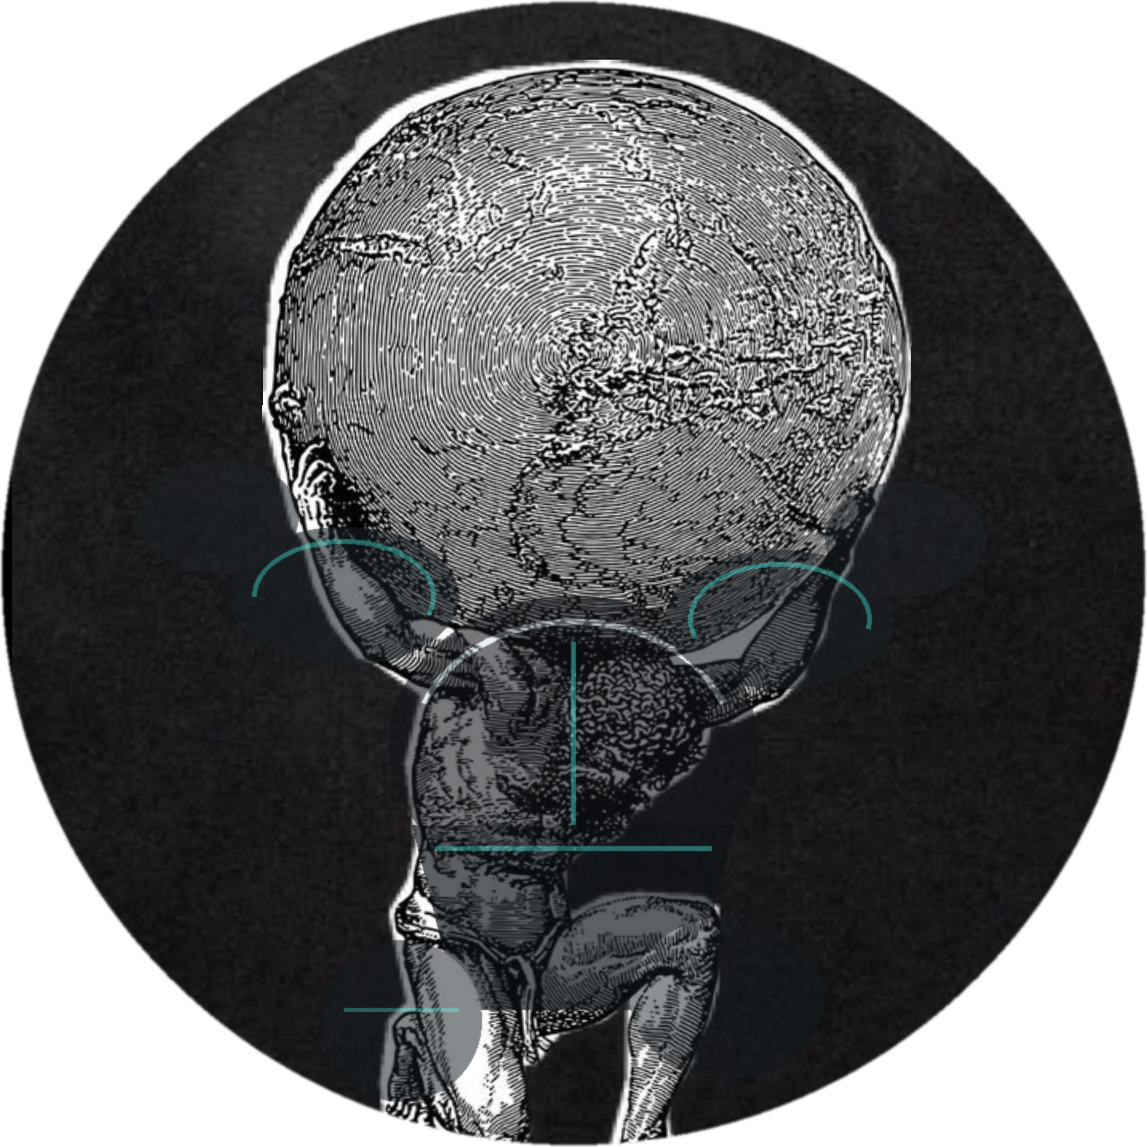
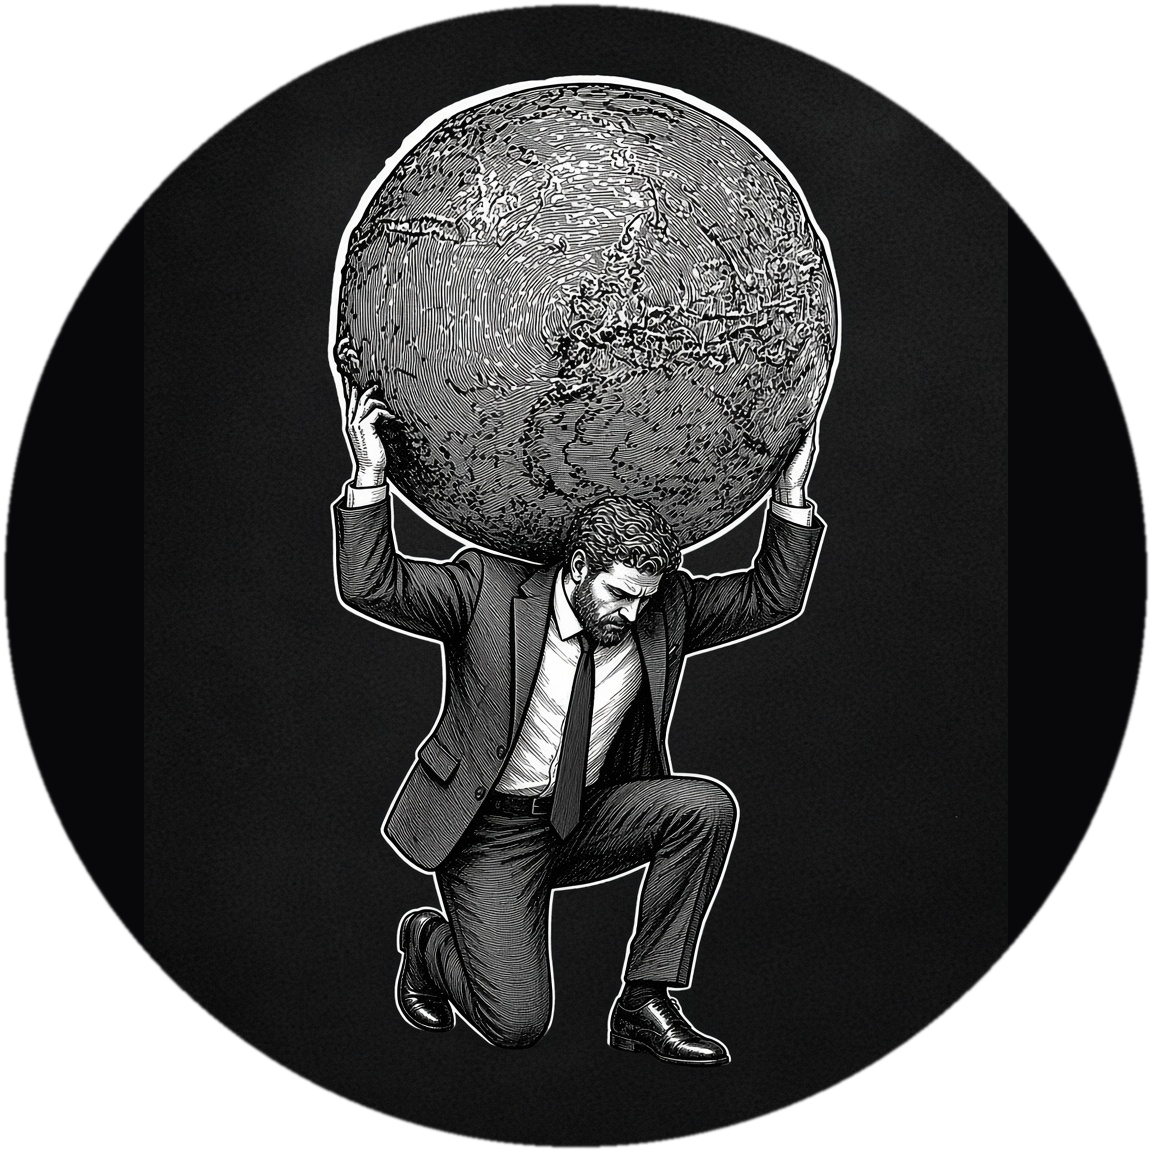
fix(hero): remove teal debug lines; cybersec-suit engraving
Replace figure PNG with clean cyber-suit engraving (no cyan overlay
guides). Give hero-visual bottom padding so « Glisser le globe » is not
clipped on mobile.

diff --git a/index.html b/index.html
@@ -161,6 +161,8 @@
     .hero-visual{
       position:relative;width:min(420px,100%);aspect-ratio:5/6;
       display:grid;place-items:center;
+      /* Room below engraving plate for drag hint (was clipped on mobile) */
+      padding-bottom:1.1rem;box-sizing:border-box;
     }
     /* Soft atmosphere behind interactive mark (not a control) */
     .hero-orb{
@@ -185,7 +187,7 @@
     #atlas-hero-mark:active{cursor:grabbing}
     #atlas-hero-mark canvas{display:block;width:100%;height:100%}
     .hero-drag-hint{
-      position:absolute;z-index:2;left:50%;bottom:2%;transform:translateX(-50%);
+      position:absolute;z-index:2;left:50%;bottom:0;transform:translateX(-50%);
       margin:0;padding:0;font-family:var(--mono);font-size:.62rem;font-weight:500;
       letter-spacing:.12em;text-transform:uppercase;color:var(--muted);
       pointer-events:none;opacity:.72;white-space:nowrap;
@@ -972,7 +974,7 @@
     }
   }
   </script>
-  <script type="module" src="/assets/atlas-hero-mark.js?v=atlas-engraving-hybrid-2026-11-20e"></script>
+  <script type="module" src="/assets/atlas-hero-mark.js?v=atlas-cyber-suit-no-teal-2026-11-20"></script>
   <!-- Optional runtime config (ops). Example: config.runtime.example.js — never commit secrets. -->
   <script src="/config.runtime.js"></script>
   <script src="/auth.js"></script>

diff --git a/assets/atlas-hero-mark.js b/assets/atlas-hero-mark.js
@@ -1,9 +1,9 @@
 /**
  * ATLAS hero mark — hybrid:
- *   • Character = static 2D engraving PNG (classical kneeling Atlas + armor overlay)
+ *   • Character = static 2D engraving PNG (kneeling Atlas in cybersec suit)
  *   • Globe = interactive Three.js Earth (auto-rotate + drag; nodes/arcs)
  *
- * Gab 2026-11-20: not obligated to use a 3D body. Match engraving ref.
+ * Gab 2026-11-20: 2D engraving body (not procedural 3D). No debug overlay lines.
  * Character never animates. Earth texture: /assets/earth-atmos.jpg
  */
 import * as THREE from 'three';

diff --git a/assets/atlas-engraving-preview.html b/assets/atlas-engraving-preview.html
@@ -12,6 +12,6 @@
 </head>
 <body>
   <p>2D engraving Atlas asset</p>
-  <img src="/assets/atlas-figure-engraving.png" alt="Atlas engraving — classical kneeling titan with armor overlay">
+  <img src="/assets/atlas-figure-engraving.png" alt="Atlas engraving — kneeling titan in cybersec suit">
 </body>
 </html>

diff --git a/README.md b/README.md
@@ -17,7 +17,7 @@ Deploy = merge / push to `main`.
 
 ## Hero mark (ATLAS)
 
-Landing brand wordmark is **ATLAS**. The hero visual is a **2D engraving-style** kneeling Atlas (beard, curly hair, dark armor costume) as canvas art — not a 3D stick/robot body. An interactive **3D** Earth globe sits on his shoulders (auto-rotate + drag; nodes/arcs). Three.js loads from jsDelivr via import map; Earth map is `/assets/earth-atmos.jpg`.
+Landing brand wordmark is **ATLAS**. The hero visual is a **2D engraving-style** kneeling Atlas in a dark cybersec suit (beard, curly hair) — not a 3D stick/robot body. An interactive **3D** Earth globe sits on his shoulders (auto-rotate + drag; nodes/arcs). Three.js loads from jsDelivr via import map; Earth map is `/assets/earth-atmos.jpg`. Figure art: `/assets/atlas-figure-engraving.png`.
 
 Legal pages are **draft product copy** (à valider conseil), linked from footer, register, PEC, and account delete surfaces.
 
